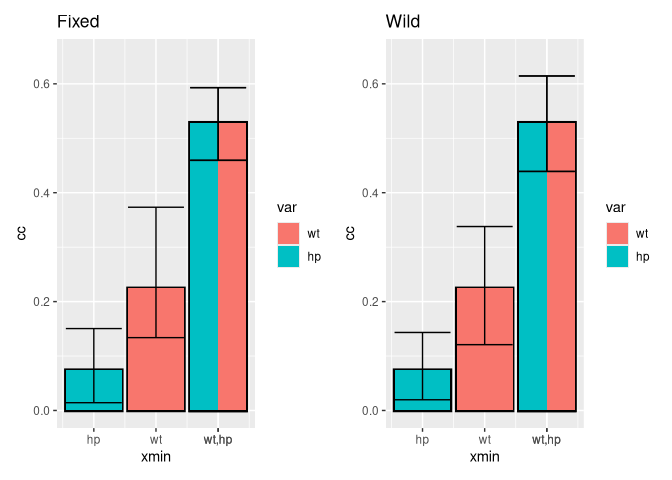
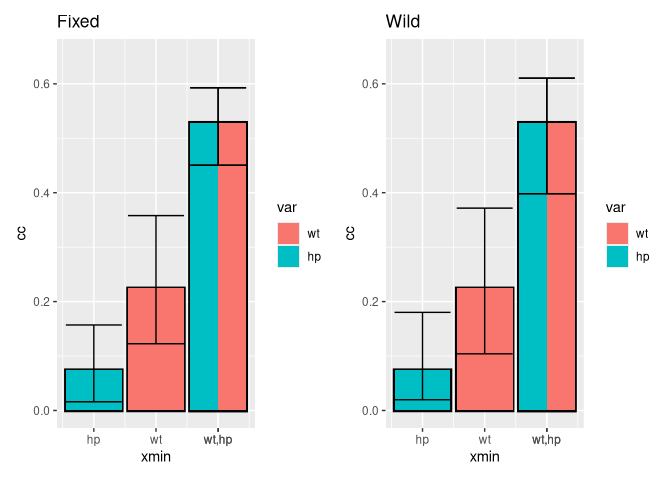
docs: update README

diff --git a/README.md b/README.md
@@ -13,7 +13,8 @@ its functionality using an object-oriented syntax. The package calls on
 `yhat` to perform commonality analyses (Nimon, Oswald, and Roberts.
 2023), building bar plots in the style of those appearing in the [MAPLE
 Lab’s](https://maplelab.net) work applying commonality analysis to the
-compositions of Bach and Chopin (Anderson and Schutz 2022).
+compositions of Bach and Chopin (Delle Grazie, Anderson, and Schutz
+2025; Anderson and Schutz 2022).
 
 Partitions are plotted sequentially in alphabetical order, starting with
 unique effects and are built iteratively with joint effects at higher
@@ -73,11 +74,18 @@ plot(p) +
   add_ci(p)
 #> Bootstrap confidence intervals:
 #>       Unique to wt         Unique to hp         Common to wt, and hp
-#> 2.5%              0.102445            0.0217475            0.4407075
-#> 97.5%             0.336340            0.1451100            0.6017200
+#> 2.5%             0.1309825             0.020545            0.4061000
+#> 97.5%            0.3454650             0.148425            0.6040325
 #>       Total               
-#> 2.5%             0.7077775
-#> 97.5%            0.9461025
+#> 2.5%             0.6928625
+#> 97.5%            0.9439675
+#> Bootstrap confidence intervals:
+#>       Unique to wt         Unique to hp         Common to wt, and hp
+#> 2.5%             0.1309825             0.020545            0.4061000
+#> 97.5%            0.3454650             0.148425            0.6040325
+#>       Total               
+#> 2.5%             0.6928625
+#> 97.5%            0.9439675
 ```
 
 <img src="man/figures/README-unnamed-chunk-2-1.png" width="100%" />
@@ -147,11 +155,11 @@ get_yhat(p)
 #> 
 #> $ci
 #>       Unique to wt         Unique to hp         Common to wt, and hp
-#> 2.5%              0.102445            0.0217475            0.4407075
-#> 97.5%             0.336340            0.1451100            0.6017200
+#> 2.5%             0.1309825             0.020545            0.4061000
+#> 97.5%            0.3454650             0.148425            0.6040325
 #>       Total               
-#> 2.5%             0.7077775
-#> 97.5%            0.9461025
+#> 2.5%             0.6928625
+#> 97.5%            0.9439675
 ```
 
 Commonality effects can be stacked in multiple ways:
@@ -170,10 +178,10 @@ p <- ggcommonality(
 plot(p) +
   add_ci(p)
 #> Bootstrap confidence intervals:
-#>        type     lower   upper
-#> 2.5% unique 0.2430325 0.38724
-#>        type   lower    upper
-#> 2.5% common 0.39058 0.602515
+#>        type     lower    upper
+#> 2.5% unique 0.2506725 0.379575
+#>        type     lower    upper
+#> 2.5% common 0.4427775 0.602435
 ```
 
 <img src="man/figures/README-unnamed-chunk-3-1.png" width="100%" />
@@ -191,10 +199,10 @@ p <- ggcommonality(
 plot(p) +
   add_ci(p)
 #> Bootstrap confidence intervals:
-#>      category    lower     upper
-#> 2.5%       wt 0.575685 0.8670875
-#>      category   lower    upper
-#> 2.5%       hp 0.44979 0.716075
+#>      category    lower   upper
+#> 2.5%       wt 0.629705 0.87233
+#>      category     lower    upper
+#> 2.5%       hp 0.4417625 0.720255
 ```
 
 <img src="man/figures/README-unnamed-chunk-4-1.png" width="100%" />
@@ -243,29 +251,29 @@ plot(p1) +
     ylim(0,0.65)+
   ggtitle("Wild")
 #>       Unique to wt         Unique to hp         Common to wt, and hp
-#> 2.5%             0.1337675            0.0142875            0.4594825
-#> 97.5%            0.3733625            0.1504600            0.5930400
+#> 2.5%             0.1225775            0.0159325              0.45048
+#> 97.5%            0.3579475            0.1570925              0.59279
 #>       Total               
-#> 2.5%             0.7478275
-#> 97.5%            0.9133325
+#> 2.5%             0.7532200
+#> 97.5%            0.9122625
 #>       Unique to wt         Unique to hp         Common to wt, and hp
-#> 2.5%             0.1337675            0.0142875            0.4594825
-#> 97.5%            0.3733625            0.1504600            0.5930400
+#> 2.5%             0.1225775            0.0159325              0.45048
+#> 97.5%            0.3579475            0.1570925              0.59279
 #>       Total               
-#> 2.5%             0.7478275
-#> 97.5%            0.9133325
+#> 2.5%             0.7532200
+#> 97.5%            0.9122625
 #>       Unique to wt         Unique to hp         Common to wt, and hp
-#> 2.5%             0.1208525            0.0196800              0.43912
-#> 97.5%            0.3378900            0.1432725              0.61448
+#> 2.5%             0.1040175            0.0196225              0.39819
+#> 97.5%            0.3716800            0.1802075              0.61039
 #>       Total               
-#> 2.5%              0.699095
-#> 97.5%             0.943825
+#> 2.5%             0.6406675
+#> 97.5%            0.9403900
 #>       Unique to wt         Unique to hp         Common to wt, and hp
-#> 2.5%             0.1208525            0.0196800              0.43912
-#> 97.5%            0.3378900            0.1432725              0.61448
+#> 2.5%             0.1040175            0.0196225              0.39819
+#> 97.5%            0.3716800            0.1802075              0.61039
 #>       Total               
-#> 2.5%              0.699095
-#> 97.5%             0.943825
+#> 2.5%             0.6406675
+#> 97.5%            0.9403900
 ```
 
 <img src="man/figures/README-unnamed-chunk-5-1.png" width="100%" />
@@ -286,6 +294,14 @@ entry-spacing="0">
 Anderson, Cameron J, and Michael Schutz. 2022. “Exploring Historic
 Changes in Musical Communication: Deconstructing Emotional Cues in
 Preludes by Bach and Chopin.” *Psychology of Music* 50 (5): 1424–42.
+
+</div>
+
+<div id="ref-delle2025breaking" class="csl-entry">
+
+Delle Grazie, Max, Cameron J Anderson, and Michael Schutz. 2025.
+“Breaking with Common Practice: Exploring Modernist Musical Emotion.”
+*Psychology of Music*, 03057356241296852.
 
 </div>
 
